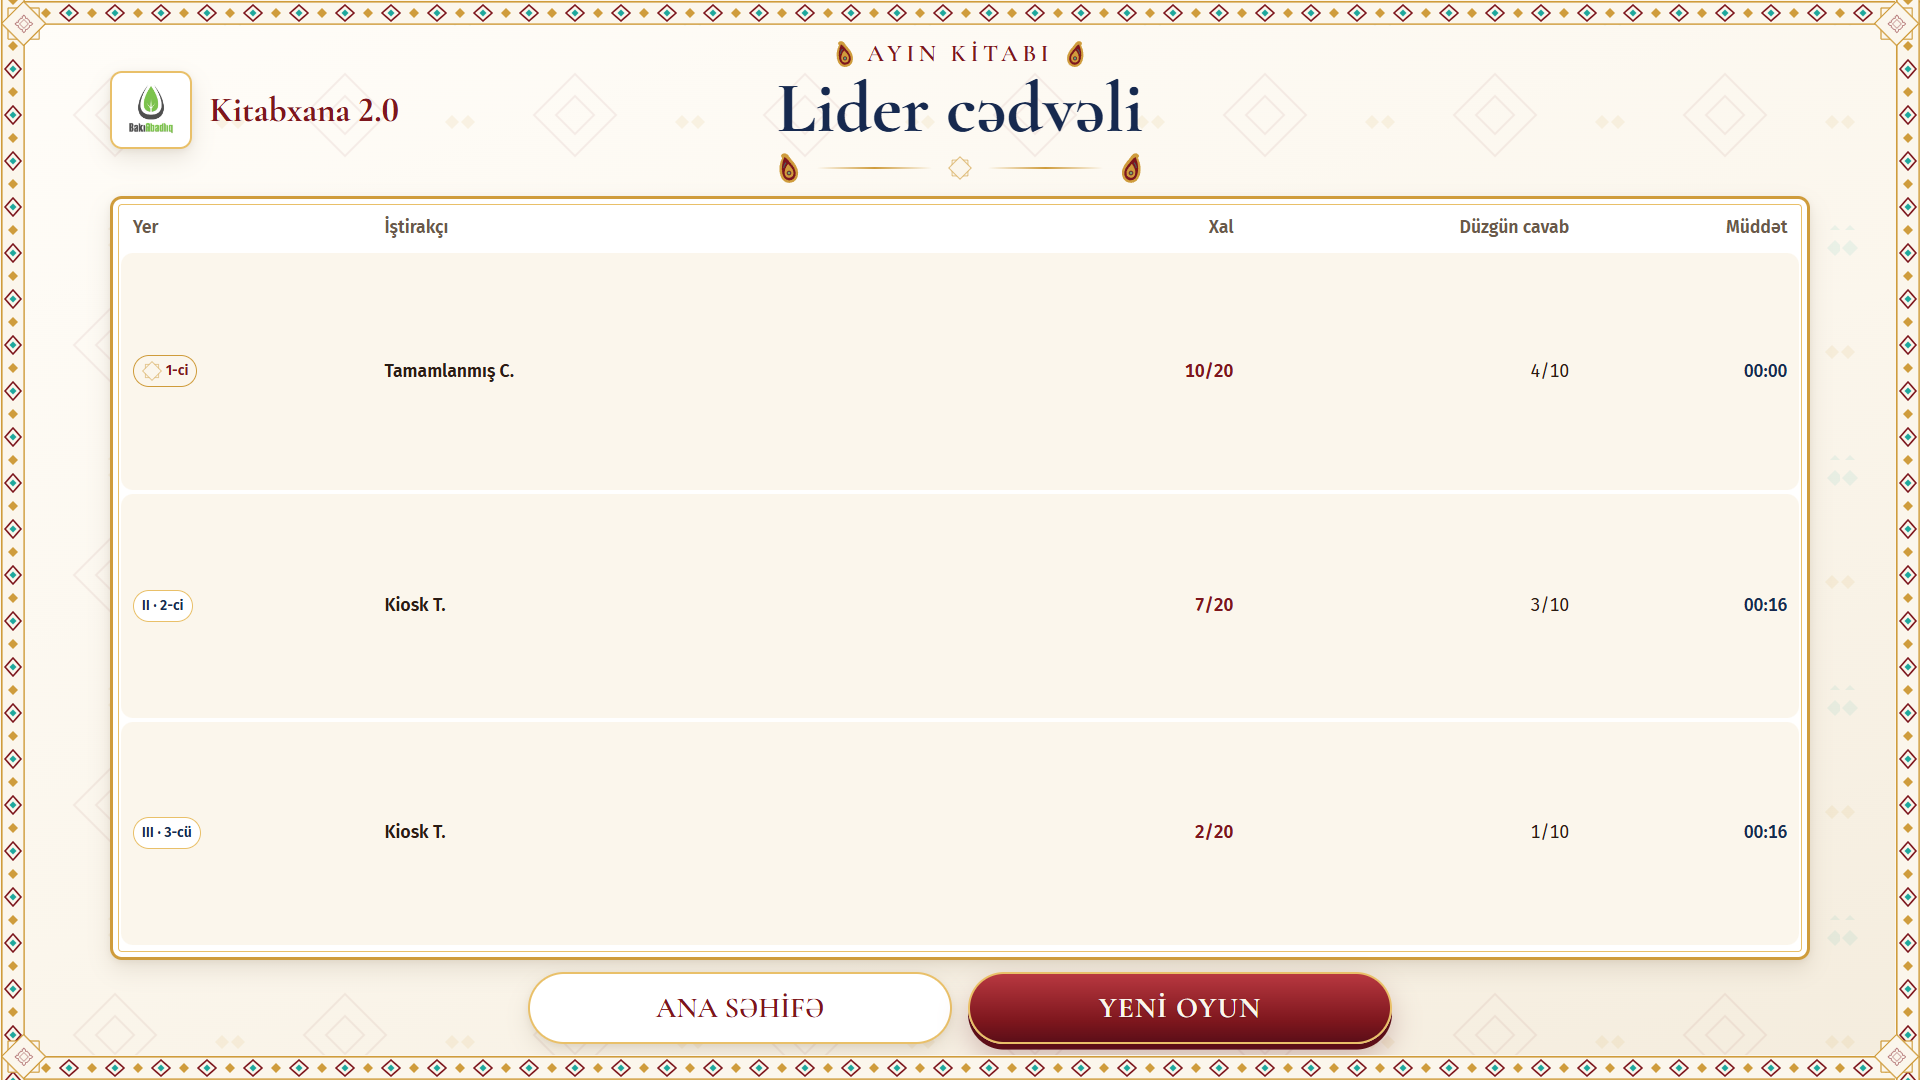
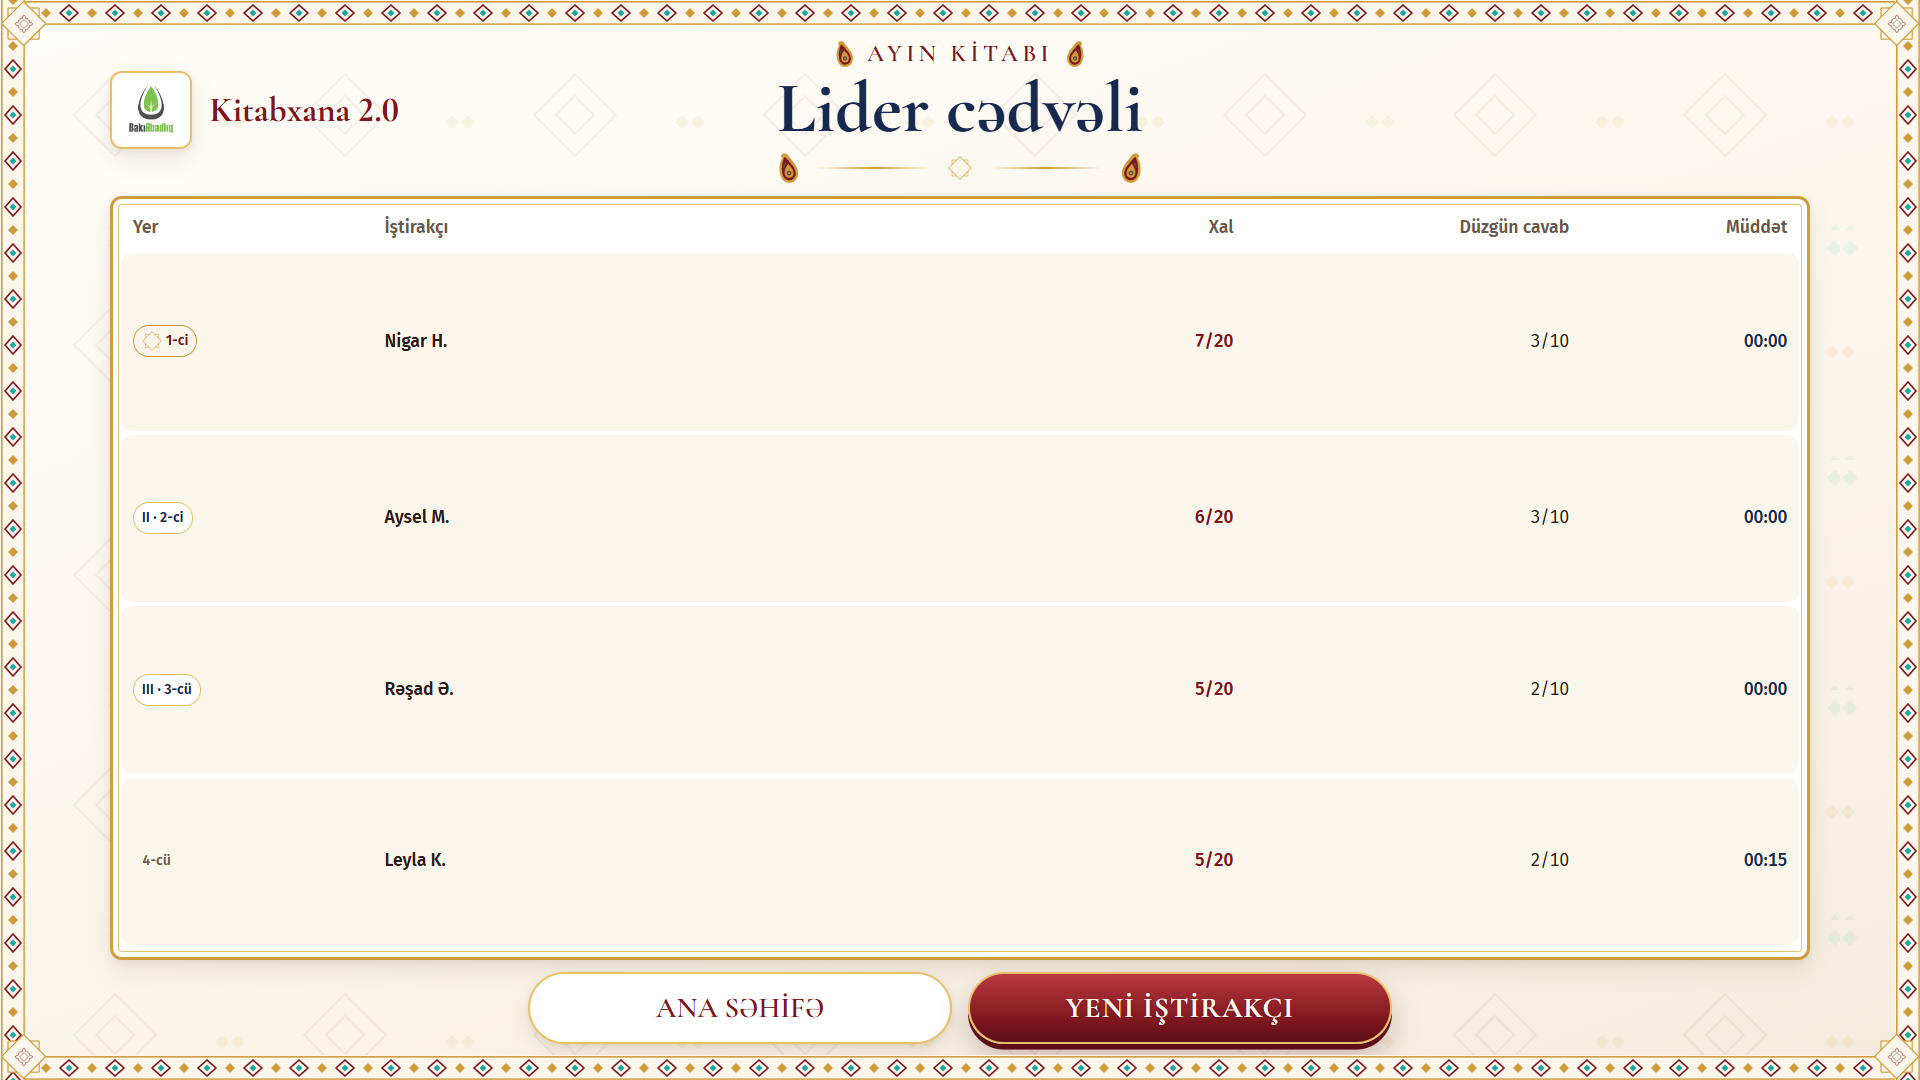
fix: finish one-attempt button wording
- Leaderboard button: "YENİ OYUN" -> "YENİ İŞTİRAKÇI".
- Refresh result, leaderboard and session-expired screenshots
  (1920x1080 and 1024x768) with the new button text.

diff --git a/frontend/src/pages/LeaderboardPage.tsx b/frontend/src/pages/LeaderboardPage.tsx
@@ -127,7 +127,7 @@ export default function LeaderboardPage() {
 
         <nav aria-label="Lider cədvəli seçimləri" className="mx-auto mt-3 grid w-full max-w-[54rem] shrink-0 grid-cols-2 gap-4">
           <button type="button" onClick={() => go('/', false)} disabled={navigating} className="tap paper-ghost flex min-h-[4.5rem] items-center justify-center rounded-full px-6 font-display text-[clamp(1.1rem,1.8vw,1.8rem)] font-semibold disabled:opacity-60">ANA SƏHİFƏ</button>
-          <button type="button" onClick={() => go('/register', true)} disabled={navigating} className="tap paper-cta flex min-h-[4.5rem] items-center justify-center rounded-full px-6 font-display text-[clamp(1.1rem,1.8vw,1.8rem)] font-bold tracking-[0.04em] disabled:opacity-60">YENİ OYUN</button>
+          <button type="button" onClick={() => go('/register', true)} disabled={navigating} className="tap paper-cta flex min-h-[4.5rem] items-center justify-center rounded-full px-6 font-display text-[clamp(1.1rem,1.8vw,1.8rem)] font-bold tracking-[0.04em] disabled:opacity-60">YENİ İŞTİRAKÇI</button>
         </nav>
       </div>
     </main>
